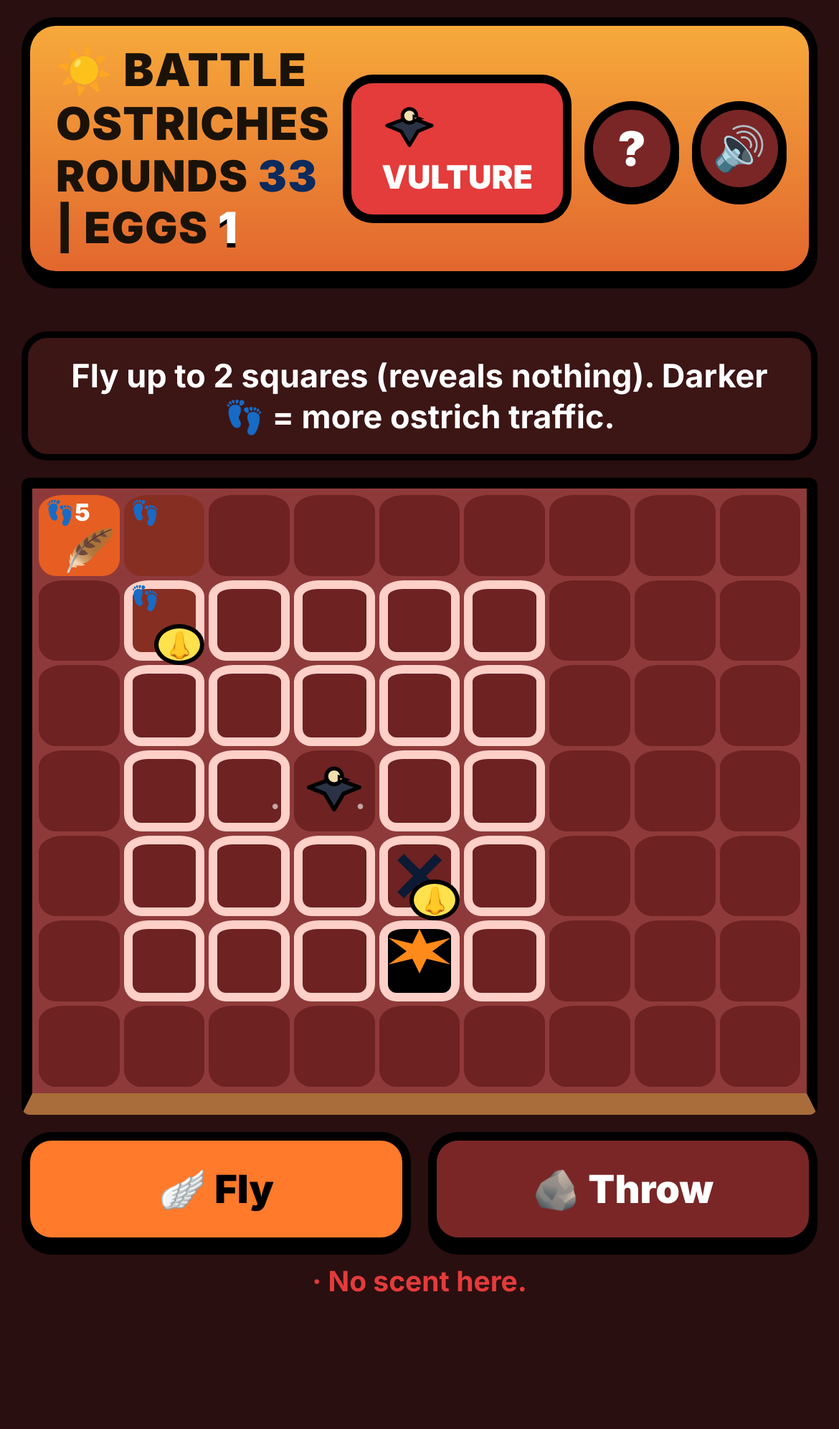
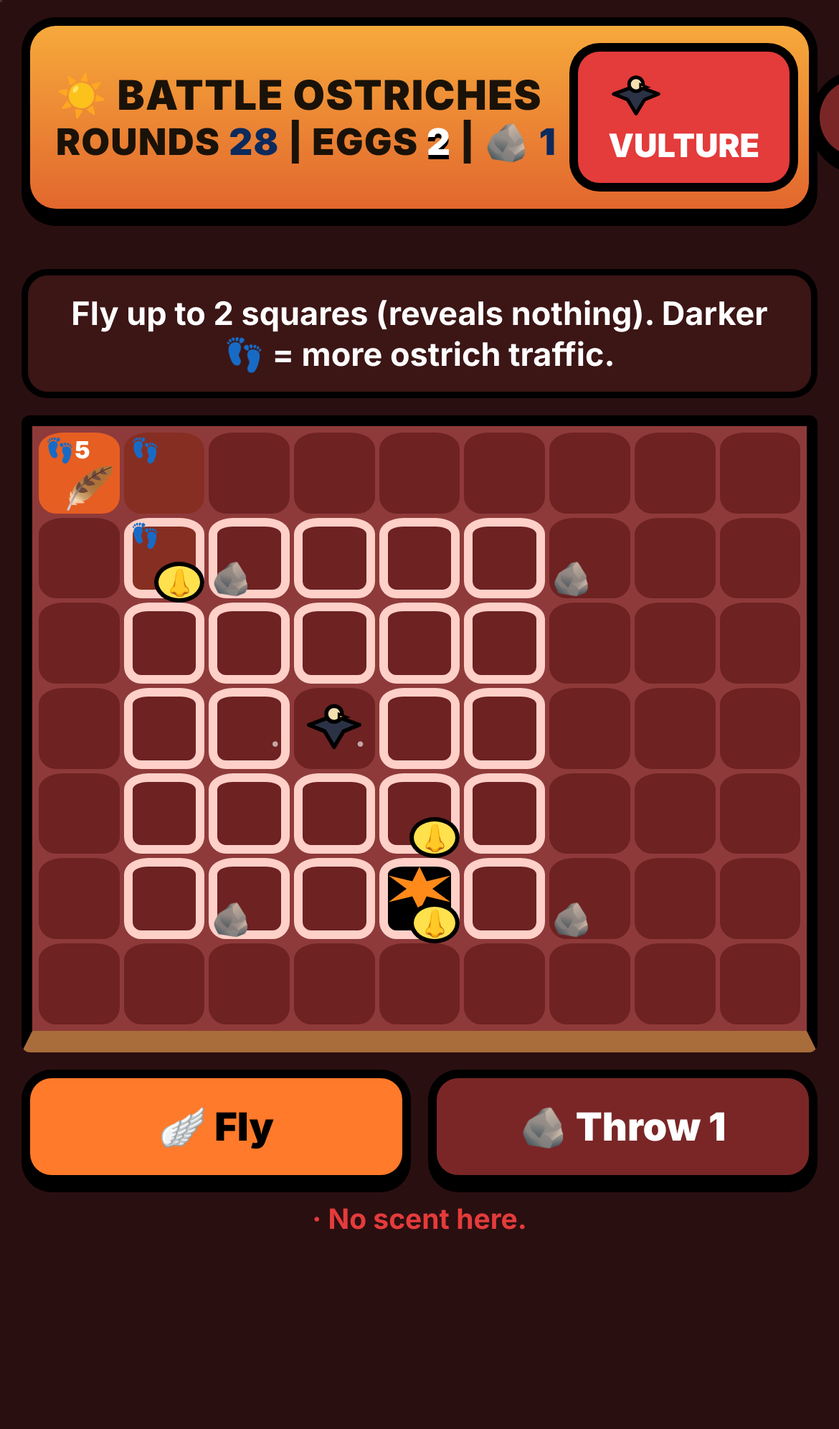
Food, limited stones + rock refills, carry limit, carried eggs smashable, warmth on eggs; retune to 35 rounds

diff --git a/game.js b/game.js
@@ -2,8 +2,8 @@
 const CONFIG = {
   cols: 9, rows: 7,
   eggs: 3,
-  rounds: 14,          // ostrich wins if any egg survives this many rounds
-  warmth: 11,           // each egg must be sat on at least once every N rounds
+  rounds: 35,          // ostrich wins if any egg survives this many rounds
+  warmth: 14,           // each egg must be sat on at least once every N rounds
   maxSit: 3,           // after N consecutive rounds on the same egg, ostrich must step off (feed)
   vultureFly: 2,       // vulture flies up to N squares (king-move distance)
   throwRange: 1,       // vulture throws at own square or within N
@@ -12,6 +12,10 @@ const CONFIG = {
   scrapeDepth: 2,      // footprint depth a scrape (fake or sat-on nest) adds
   sitDepth: 1,         // footprint depth added each round the ostrich sits on a real egg
   smellRange: 2,       // after landing, vulture learns if any egg is within N squares (yes/no)
+  maxCarry: 2,         // consecutive turns an egg may be carried before it must be set down
+  foodMin: 2, foodMax: 3, // food spawns this many squares (king distance) from the ostrich
+  stones: 3,           // stones the vulture holds (and refills to)
+  rocks: [[2, 1], [6, 1], [2, 5], [6, 5]], // symmetric rock squares; landing refills stones
 };
 const dist = (a, b) => Math.max(Math.abs(a[0] - b[0]), Math.abs(a[1] - b[1]));
 const key = (p) => p[0] + ',' + p[1];
@@ -20,7 +24,8 @@ const inB = (p, c = CONFIG) => p[0] >= 0 && p[1] >= 0 && p[0] < c.cols && p[1] <
 function newGame(cfg = CONFIG) {
   return { cfg, phase: 'setupEggs', round: 1, turn: 'blue', eggs: [], ostrich: null,
     carrying: null, sitEgg: null, sitCount: 0, vulture: cfg.vultureStart.slice(),
-    prints: {}, marks: {}, fakes: [], smells: {}, thrown: {}, vtracks: {}, log: [], winner: null };
+    prints: {}, marks: {}, fakes: [], smells: {}, thrown: {}, vtracks: {}, log: [], winner: null,
+    carryTurns: 0, food: null, hungry: false, stones: cfg.stones };
 }
 function eggAt(g, p) { return g.eggs.find(e => e.alive && e.pos && key(e.pos) === key(p)); }
 function aliveEggs(g) { return g.eggs.filter(e => e.alive); }
@@ -43,12 +48,17 @@ function placeOstrich(g, p) {
 // --- ostrich ---
 function ostrichMoves(g, carry = false) {
   if (g.phase !== 'play' || g.turn !== 'blue') return [];
+  if (carryMaxed(g) && canSetDown(g)) return []; // must set down here
+  const res = moves1(g, carry, true); return res.length || !carryMaxed(g) ? res : moves1(g, carry, false);
+}
+function moves1(g, carry, strict) {
   const res = [];
   for (let dx = -1; dx <= 1; dx++) for (let dy = -1; dy <= 1; dy++) {
     if (!dx && !dy) continue;
     const p = [g.ostrich[0] + dx, g.ostrich[1] + dy];
     if (!inB(p, g.cfg)) continue;
     if ((carry || g.carrying !== null) && eggAt(g, p)) continue; // can carry only one egg
+    if (strict && carryMaxed(g) && !stoneFree(g, p)) continue; // forced to set down on arrival
     res.push(p);
   }
   return res;
@@ -57,24 +67,45 @@ function canPickUp(g) { // standing on a placed egg, not carrying
   return g.phase === 'play' && g.turn === 'blue' && g.carrying === null && g.sitEgg !== null;
 }
 function stoneFree(g, p) { return !g.thrown[key(p)]; }
+function isRock(g, p) { return g.cfg.rocks.some(r => key(r) === key(p)); }
+// At the carry limit the ostrich must set down now; if its square is stoned it takes one step and sets down there automatically.
+function carryMaxed(g) { return g.carrying !== null && g.carryTurns >= g.cfg.maxCarry; }
 function canSetDown(g) { return g.phase === 'play' && g.turn === 'blue' && g.carrying !== null && !eggAt(g, g.ostrich) && stoneFree(g, g.ostrich); }
 function ostrichStep(g, p, carry = false) {
   if (carry && !canPickUp(g)) return false;
   if (!ostrichMoves(g, carry).some(q => key(q) === key(p))) return false;
-  if (carry) { const e = g.eggs[g.sitEgg]; e.pos = null; g.carrying = e.id; }
+  const forced = carryMaxed(g);
+  if (carry) { const e = g.eggs[g.sitEgg]; e.pos = null; g.carrying = e.id; g.carryTurns = 0; }
   g.ostrich = p.slice();
   g.prints[key(p)] = (g.prints[key(p)] || 0) + 1;
+  if (g.food && key(g.food) === key(p)) { g.food = null; g.hungry = false; g.lastAte = true; } else g.lastAte = false;
+  g.sitRun = 0;
+  if (forced) { const e = g.eggs[g.carrying]; if (!stoneFree(g, p)) { e.alive = false; g.carrying = null; g.carryTurns = 0; g.sitEgg = null; g.sitCount = 0; endOstrich(g); return true; } e.pos = p.slice(); g.carrying = null; g.carryTurns = 0; g.sitEgg = e.id; g.sitCount = 0; endOstrich(g); return true; }
+  if (g.carrying !== null) g.carryTurns++;
   const e = g.carrying === null ? eggAt(g, p) : null;
   if (e) { if (g.sitEgg !== e.id) g.sitCount = 0; g.sitEgg = e.id; } else { g.sitEgg = null; g.sitCount = 0; }
   endOstrich(g); return true;
 }
 function ostrichSetDown(g) {
   if (!canSetDown(g)) return false;
-  const e = g.eggs[g.carrying]; e.pos = g.ostrich.slice(); g.carrying = null;
+  const e = g.eggs[g.carrying]; e.pos = g.ostrich.slice(); g.carrying = null; g.carryTurns = 0; g.sitRun = 0;
   g.sitEgg = e.id; g.sitCount = 0; endOstrich(g); return true;
 }
-function canSit(g) { return g.phase === 'play' && g.turn === 'blue' && g.carrying === null && g.sitEgg !== null && g.sitCount < g.cfg.maxSit; }
-function ostrichSit(g) { if (!canSit(g)) return false; addPrint(g, g.ostrich, g.cfg.sitDepth); endOstrich(g); return true; }
+function canSit(g) { return g.phase === 'play' && g.turn === 'blue' && g.carrying === null && g.sitEgg !== null && g.sitCount < g.cfg.maxSit && !g.hungry; }
+function ostrichSit(g) { if (!canSit(g)) return false; addPrint(g, g.ostrich, g.cfg.sitDepth); g.sitRun = (g.sitRun || 0) + 1; endOstrich(g);
+  if (g.phase === 'play' && g.sitRun >= g.cfg.maxSit) { g.sitRun = 0; g.food = spawnFood(g); g.hungry = !!g.food; } return true; }
+// Food: empty, unstoned, not a rock, foodMin..foodMax away, and the round trip (2*d) must fit the coldest egg's remaining warmth.
+function spawnFood(g) {
+  const o = g.ostrich, minWarm = Math.min(...aliveEggs(g).map(e => coldIn(g, e)));
+  const ok = (p, lo, hi) => { const d = dist(p, o); return d >= lo && d <= hi && !eggAt(g, p) && !fakeAt(g, p) && stoneFree(g, p) && !isRock(g, p) && key(p) !== key(g.vulture); };
+  const all = []; for (let x = 0; x < g.cfg.cols; x++) for (let y = 0; y < g.cfg.rows; y++) all.push([x, y]);
+  for (let hi = g.cfg.foodMax; hi >= 1; hi--) {
+    const lo = Math.min(g.cfg.foodMin, hi);
+    const c = all.filter(p => ok(p, lo, hi) && (2 * dist(p, o) < minWarm || hi === 1));
+    if (c.length) return c[Math.floor(Math.random() * c.length)];
+  }
+  return null; // nowhere legal: no hunger this time
+}
 function addPrint(g, p, n) { g.prints[key(p)] = (g.prints[key(p)] || 0) + n; }
 function fakeAt(g, p) { return g.fakes.some(f => key(f) === key(p)); }
 function canScrape(g) { return g.phase === 'play' && g.turn === 'blue' && g.fakes.length < g.cfg.fakeNests && !eggAt(g, g.ostrich) && !fakeAt(g, g.ostrich) && g.carrying === null; }
@@ -85,9 +116,9 @@ function endOstrich(g) {
   if (g.sitEgg !== null) { g.sitCount++; g.eggs[g.sitEgg].lastWarm = g.round; }
   endRound(g);
 }
-// The ostrich must step every turn (or set down); if sitting the max, it can't stay — stepping is always required anyway.
-// Feeding rule: after maxSit consecutive rounds sitting on an egg, the ostrich may not carry it away either.
+// Feeding rule: after maxSit consecutive sits the ostrich gets hungry: food spawns and it can't sit until it steps on the food.
 function canCarryNow(g) { return canPickUp(g) && !mustLeave(g); }
+function canThrow(g) { return g.phase === 'play' && g.turn === 'red' && g.stones > 0; }
 
 // --- vulture ---
 function flyTargets(g) {
@@ -97,7 +128,7 @@ function flyTargets(g) {
   return r;
 }
 function throwTargets(g) {
-  if (g.phase !== 'play' || g.turn !== 'red') return [];
+  if (!canThrow(g)) return [];
   const r = []; for (let x = 0; x < g.cfg.cols; x++) for (let y = 0; y < g.cfg.rows; y++)
     if (dist([x, y], g.vulture) <= g.cfg.throwRange) r.push([x, y]);
   return r;
@@ -106,6 +137,7 @@ function vultureFly(g, p) {
   if (!flyTargets(g).some(q => key(q) === key(p))) return false;
   g.vulture = p.slice(); g.lastAction = { type: 'fly' };
   g.vtracks[key(p)] = (g.vtracks[key(p)] || 0) + 1;
+  if (isRock(g, p) && g.stones < g.cfg.stones) { g.stones = g.cfg.stones; g.lastAction.refill = true; }
   // Landing on an unguarded, uncarried egg spots it. The mark stays even if the egg later moves (stale).
   const e = eggAt(g, p);
   if (e && key(p) !== key(g.ostrich)) { g.marks[key(p)] = 'spotted'; g.lastAction.spotted = p.slice(); }
@@ -116,7 +148,9 @@ function vultureThrow(g, p) {
   if (!throwTargets(g).some(q => key(q) === key(p))) return false;
   const e = eggAt(g, p); let result;
   const guarded = key(p) === key(g.ostrich);
-  if (guarded && (e || g.carrying !== null)) result = 'feather';
+  g.stones--;
+  if (guarded && g.carrying !== null) { const c = g.eggs[g.carrying]; c.alive = false; g.carrying = null; g.carryTurns = 0; result = 'hit'; } // carried egg is exposed
+  else if (guarded && e) result = 'feather';
   else if (e) { e.alive = false; result = 'hit'; if (g.sitEgg === e.id) { g.sitEgg = null; g.sitCount = 0; } }
   else if (fakeAt(g, p)) result = 'fake';
   else result = 'miss';
@@ -130,7 +164,7 @@ function endRound(g) {
   g.lastCold = [];
   for (const e of aliveEggs(g)) if (g.round - e.lastWarm >= g.cfg.warmth) {
     e.alive = false; g.lastCold.push(e.id);
-    if (g.carrying === e.id) g.carrying = null;
+    if (g.carrying === e.id) { g.carrying = null; g.carryTurns = 0; }
     if (g.sitEgg === e.id) { g.sitEgg = null; g.sitCount = 0; }
   }
   if (!aliveEggs(g).length) { g.winner = 'red'; g.phase = 'over'; return; }
@@ -139,6 +173,6 @@ function endRound(g) {
 }
 function coldIn(g, e) { return g.cfg.warmth - (g.round - e.lastWarm); } // rounds left before going cold
 
-const API = { CONFIG, newGame, placeEgg, placeOstrich, ostrichMoves, ostrichStep, ostrichSetDown, canPickUp, canSit, ostrichSit, canScrape, ostrichScrape, fakeAt, smellsEgg, stoneFree,
+const API = { CONFIG, newGame, placeEgg, placeOstrich, ostrichMoves, ostrichStep, ostrichSetDown, canPickUp, canSit, ostrichSit, canScrape, canThrow, isRock, carryMaxed, spawnFood, ostrichScrape, fakeAt, smellsEgg, stoneFree,
   canCarryNow, canSetDown, mustLeave, flyTargets, throwTargets, vultureFly, vultureThrow, eggAt, aliveEggs, coldIn, key, dist };
 if (typeof module !== 'undefined') module.exports = API; else window.BO = API;

diff --git a/public/ui.js b/public/ui.js
@@ -71,7 +71,7 @@ function curMode(){if(!S.myTurn)return null;if(S.role==='red')return mode||'fly'
 function render(prev){
  $('lobby').classList.add('hidden');const C=S.cfg,blue=S.role==='blue',body=document.body;body.className=blue?'blue':'red';
  $('turnTag').innerHTML=`<span style="display:inline-block;width:26px;height:26px;vertical-align:middle">${blue?OST:VUL}</span> ${blue?'OSTRICH':'VULTURE'}`;
- $('roundsLeft').textContent=C.rounds-S.round+1;$('eggsLeft').textContent=S.eggsLeft;
+ $('roundsLeft').textContent=C.rounds-S.round+1;$('eggsLeft').textContent=S.eggsLeft;if($('stonesLeft'))$('stonesLeft').textContent=S.stones;
  // waiting for opponent
  const link=location.origin+'/?room='+S.code,slot=$('wait-slot');
  if(!S.opponent&&S.phase!=='over'){const w=$('wait');w.classList.remove('hidden');slot.appendChild(w);$('shareCode').textContent=S.code;$('shareLink').value=link;}
@@ -90,27 +90,33 @@ function render(prev){
   if(blue&&S.can&&S.can.down&&S.ostrich&&k===key(S.ostrich))d.classList.add('nestok');
   if(blue&&(S.fakes||[]).some(f=>key(f)===k))d.innerHTML+='<span class="fakeic">🪹</span>';
   if(!blue&&S.smells&&k in S.smells)d.innerHTML+=`<span class="smell ${S.smells[k]?'yes':'no'}">${S.smells[k]?'👃':'·'}</span>`;
-  const e=eggAt[k];if(e)d.innerHTML+=`<div class="egg${e.coldIn<=2?' cold':''}"></div>`;
+  if((C.rocks||[]).some(r=>key(r)===k)){d.classList.add('rocksq');d.innerHTML+='<span class="rock">🪨</span>';}
+  if(blue&&S.food&&key(S.food)===k)d.innerHTML+='<span class="food">🦗</span>';
+  const e=eggAt[k];if(e)d.innerHTML+=`<div class="egg${e.coldIn<=2?' cold':''}"></div>`+(blue&&S.phase==='play'?`<span class="eggw${e.coldIn<=1?' crit':e.coldIn<=2?' low':''}">🔥${e.coldIn}</span>`:'');
   if(k===key(S.vulture))d.innerHTML+=`<div class="pc" style="background:none;border:0${blue?';width:60%;height:60%':''}">${VUL}</div>`;
-  if(S.ostrich&&k===key(S.ostrich))d.innerHTML+=`<div class="pc" style="background:none;border:0">${OST}${S.carrying!==null?'<span style="position:absolute;right:-4px;bottom:-4px;font-size:.6em">🥚</span>':''}</div>`;
+  if(S.ostrich&&k===key(S.ostrich))d.innerHTML+=`<div class="pc" style="background:none;border:0">${OST}${S.carrying!==null?'<span style="position:absolute;right:-4px;bottom:-4px;font-size:.6em">🥚</span>':''}</div>`+(S.carrying!==null&&S.eggs[S.carrying]?`<span class="eggw">🔥${S.eggs[S.carrying].coldIn}</span>`:'');
   d.onclick=()=>tap(x,y);board.appendChild(d);}
  const w=$('warm');w.innerHTML='';
- if(blue&&S.phase==='play')S.eggs.forEach((e,i)=>{const c=document.createElement('div');c.className='wchip'+(!e.alive?' dead':e.coldIn<=1?' crit':e.coldIn<=2?' low':'');c.textContent=`🥚${i+1}: ${e.alive?(e.carried?'carried · ':'')+'🔥'+e.coldIn:'lost'}`;w.appendChild(c);});
+ if(false)S.eggs.forEach((e,i)=>{const c=document.createElement('div');c.className='wchip'+(!e.alive?' dead':e.coldIn<=1?' crit':e.coldIn<=2?' low':'');c.textContent=`🥚${i+1}: ${e.alive?(e.carried?'carried · ':'')+'🔥'+e.coldIn:'lost'}`;w.appendChild(c);});
  const a=$('actions');let h='';a.innerHTML='';
  if(S.phase==='setupEggs')h=blue?`Tap ${C.eggs-S.eggs.length} square(s) to hide eggs. Spread out = harder to find, longer to keep warm.`:'The ostrich is hiding its eggs…';
  else if(S.phase==='setupOstrich')h=blue?'Tap where your ostrich starts (on an egg to start warming it).':'The ostrich is hiding its eggs…';
  else if(S.phase==='play'&&!S.myTurn)h=blue?'Vulture\'s turn — watch the sky…':'Ostrich\'s turn — it\'s moving somewhere…';
  else if(S.phase==='play'&&blue){
   a.innerHTML=`<button class="${M==='step'?'on':''}" onclick="UI.setMode('step')">👣 Step</button>`+(S.carrying===null?`<button ${S.can.carry?'':'disabled'} class="${M==='carry'?'on':''}" onclick="UI.setMode('carry')">🥚 Carry</button><button ${S.can.sit?'':'disabled'} onclick="UI.act('sit')">🪺 Sit</button><button ${S.can.scrape?'':'disabled'} onclick="UI.act('scrape')">🪹 Fake ${S.fakesLeft}</button>`:`<button ${S.can.down?'':'disabled'} onclick="UI.act('down')">⬇ Set down</button>`);
-  h=M==='carry'?'Carry: tap a highlighted square to walk off WITH this egg.':S.carrying!==null?(S.can.down?'Carrying an egg (cooling). Set down here, or Step.':'Carrying an egg (cooling). A stone has hit this square: you can\'t nest here.')+' Green rings = stone-free squares where you could set it down.':S.mustLeave?`Hungry! ${C.maxSit} rounds on this egg — step off to feed.`:S.onEgg?'On an egg (warm & safe). Sit, Carry it, or Step off.':`Step: tap a highlighted square. Or scrape a fake nest here (${S.fakesLeft} left).`;
+  h=S.carryMaxed?(S.can.down?`Carried ${C.maxCarry} turns: you must set the egg down now.`:'Carried too long and this square was stoned: step to a green square — the egg is set down there.'):S.hungry&&S.onEgg&&!S.can.sit&&S.food?'Hungry! Walk to the 🦗 to eat before you can sit again.':M==='carry'?'Carry: tap a highlighted square to walk off WITH this egg.':S.carrying!==null?(S.can.down?'Carrying an egg (cooling). Set down here, or Step.':'Carrying an egg (cooling). A stone has hit this square: you can\'t nest here.')+' Green rings = stone-free squares where you could set it down.':S.hungry?'Hungry! Walk to the 🦗 food to eat. You can\'t sit until you do.':S.mustLeave?`${C.maxSit} rounds on this egg — step off.`:S.onEgg?'On an egg (warm & safe). Sit, Carry it, or Step off.':`Step: tap a highlighted square. Or scrape a fake nest here (${S.fakesLeft} left).`;
  } else if(S.phase==='play'){
-  a.innerHTML=`<button class="${M==='fly'?'on':''}" onclick="UI.setMode('fly')">🪽 Fly</button><button class="${M==='throw'?'on':''}" onclick="UI.setMode('throw')">🪨 Throw</button>`;
-  h=M==='fly'?`Fly up to ${C.vultureFly} squares (reveals nothing). Darker 👣 = more ostrich traffic.`:'Throw a stone at your square or a neighbour. Repeats allowed.';}
+  a.innerHTML=`<button class="${M==='fly'?'on':''}" onclick="UI.setMode('fly')">🪽 Fly</button><button ${S.stones>0?'':'disabled'} class="${M==='throw'?'on':''}" onclick="UI.setMode('throw')">🪨 Throw ${S.stones}</button>`;
+  h=M==='fly'?`Fly up to ${C.vultureFly} squares (reveals nothing). Darker 👣 = more ostrich traffic.`:'Throw a stone at your square or a neighbour. Repeats allowed.';
+  if(!S.stones)h='Out of stones! Fly to a 🪨 rock square to reload '+C.stones+'.';}
  // event line
  let ev='';const la=S.lastAction;
  if(prev&&la&&prev.turn==='red'&&S.turn==='blue'&&la.type==='throw')ev=la.result==='fake'?(blue?'🪹 The vulture stoned one of your fake nests.':'🪹 Just an empty scrape — a fake nest!'):la.result==='hit'?'💥 SMASH! An egg was broken.':la.result==='feather'?(blue?'🪶 A stone hit you — your egg was safe.':'🪶 Feathers! An ostrich was guarding an egg there.'):'✕ Stone missed.';
  else if(prev&&la&&prev.turn==='red'&&S.turn==='blue'&&la.spotted)ev=blue?'👁 The vulture SPOTTED an egg! Sit on it or carry it away now.':'';
  else if(prev&&la&&prev.turn==='red'&&S.turn==='blue'&&blue)ev='The vulture flew.';
+ if(la&&la.refill&&prev&&prev.turn==='red'&&S.turn==='blue')ev+=blue?' 🪨 It reloaded stones at a rock.':'';
+ if(!blue&&S.myTurn&&la&&la.refill&&prev&&prev.turn==='blue')ev='🪨 Reloaded: '+C.stones+' stones. ';
+ if(blue&&S.myTurn&&S.food&&prev&&!prev.food)ev+=' 🦗 Hungry! Food appeared nearby.';
  if(S.lastCold&&prev&&prev.round!==S.round)ev+=` ❄ ${S.lastCold} egg(s) went cold!`;
  if(!blue&&S.myTurn&&la&&la.type==='fly'&&key(S.vulture)&&prev&&prev.turn==='blue')ev=(la.fake?'🪹 This scrape is empty — a fake nest! ':'')+(la.smell?'👃 You smell eggs nearby! (within '+C.smellRange+' squares)':'· No scent here.')+(la.spotted?' 👁 And you spotted an egg right here — throw!':'');
  if(!blue&&S.myTurn&&la&&la.spotted&&!ev&&S.marks[key(la.spotted)]==='spotted'&&key(la.spotted)===key(S.vulture))ev='👁 You spotted an egg right here! Throw at it now.';

diff --git a/test.js b/test.js
@@ -1,5 +1,5 @@
 const B=require('./game.js');const assert=require('assert');let n=0;const t=(name,f)=>{f();n++;console.log('ok',name)};
-const LEGACY=Object.assign({},B.CONFIG,{rounds:40,warmth:6});const _ng=B.newGame;B.newGame=(c)=>_ng(c||LEGACY);
+const LEGACY=Object.assign({},B.CONFIG,{rounds:40,warmth:6,stones:99,maxCarry:99});const _ng=B.newGame;B.newGame=(c)=>_ng(c||LEGACY);
 function setup(){const g=B.newGame();B.placeEgg(g,[0,0]);B.placeEgg(g,[8,6]);B.placeEgg(g,[0,6]);B.placeOstrich(g,[0,0]);B.vultureFly(g,[4,2]);return g;}
 t('setup',()=>{const g=setup();assert.equal(g.phase,'play');assert.equal(g.sitEgg,0);assert(!B.placeEgg(B.newGame(),[4,3]))});
 t('ostrich 8-dir step only adjacent',()=>{const g=setup();assert(!B.ostrichStep(g,[2,2]));assert(B.ostrichStep(g,[1,1]));assert.equal(g.turn,'red')});
@@ -10,7 +10,7 @@ t('fly range 2, throw adjacent',()=>{const g=setup();B.ostrichStep(g,[1,1]);asse
 t('hit unguarded egg, miss, feather on guarded, repeat allowed',()=>{const g=B.newGame();B.config;B.placeEgg(g,[4,4]);B.placeEgg(g,[5,3]);B.placeEgg(g,[0,0]);B.placeOstrich(g,[0,1]);B.vultureFly(g,[4,3+1]);B.vultureFly; g.vulture=[4,3];
  B.ostrichStep(g,[0,0]);assert.equal(B.vultureThrow(g,[4,4]),'hit');B.ostrichStep(g,[1,1]);assert.equal(B.vultureThrow(g,[3,3]),'miss');B.ostrichStep(g,[0,0]);assert.equal(B.vultureThrow(g,[3,3]),'miss');
  const h=B.newGame();B.placeEgg(h,[4,4]);B.placeEgg(h,[0,0]);B.placeEgg(h,[8,0]);B.placeOstrich(h,[4,4]);B.vultureFly(h,[4,5]);B.ostrichSit(h);assert.equal(B.vultureThrow(h,[4,4]),'feather');assert(h.eggs[0].alive)});
-t('carried egg guarded',()=>{const g=setup();B.ostrichStep(g,[1,1],true);B.vultureFly(g,[2,2]);B.ostrichStep(g,[2,1]);assert.equal(B.vultureThrow(g,[2,1]),'feather');assert(g.eggs[0].alive)});
+t('carried egg is smashed by a stone on the ostrich',()=>{const g=setup();B.ostrichStep(g,[1,1],true);B.vultureFly(g,[2,2]);B.ostrichStep(g,[2,1]);assert.equal(B.vultureThrow(g,[2,1]),'hit');assert(!g.eggs[0].alive);assert.equal(g.carrying,null)});
 t('footprints deepen',()=>{const g=setup();B.ostrichStep(g,[1,1]);B.vultureFly(g,[4,4]);B.ostrichStep(g,[0,0]);B.vultureFly(g,[4,3]);B.ostrichStep(g,[1,1]);assert.equal(g.prints['1,1'],2)});
 t('warmth: unvisited eggs go cold after 6 rounds',()=>{const g=setup();let x=0;for(let r=1;r<=6;r++){B.ostrichStep(g,[r%2,1]);B.vultureFly(g,[4,r%2?4:3]);}assert(!g.eggs[1].alive&&!g.eggs[2].alive);});
 t('vulture wins when all eggs lost',()=>{const g=setup();for(let r=1;r<=6;r++){B.ostrichStep(g,[r%2,1]);B.vultureFly(g,[4,r%2?4:3]);}assert.equal(g.winner,'red')});
@@ -50,4 +50,17 @@ t('set down only where no stone was ever thrown',()=>{const g=setup();B.ostrichS
 t('vulture landing tracks deepen; no signal when eggs move',()=>{const g=setup();B.ostrichStep(g,[1,1],true);
  assert.equal(g.vtracks['4,2'],1);B.vultureFly(g,[4,3]);B.ostrichStep(g,[1,2]);B.vultureFly(g,[4,2]);assert.equal(g.vtracks['4,2'],2);
  assert.deepEqual(Object.keys(g.lastAction).sort(),['smell','type']);});
+
+const NEW=()=>{const g=_ng(B.CONFIG);B.placeEgg(g,[0,0]);B.placeEgg(g,[8,6]);B.placeEgg(g,[0,6]);B.placeOstrich(g,[0,0]);B.vultureFly(g,[4,2]);return g;};
+t('max 2 carry turns, then forced set-down (stone-free only)',()=>{const g=NEW();assert(B.ostrichStep(g,[1,0],true));B.vultureFly(g,[4,3]);assert(B.ostrichStep(g,[2,0]));assert(B.carryMaxed(g));B.vultureFly(g,[4,2]);
+ assert.equal(B.ostrichMoves(g).length,0);assert(B.ostrichSetDown(g));assert.equal(g.carrying,null);
+ const h=NEW();B.ostrichStep(h,[1,0],true);B.vultureFly(h,[4,3]);B.ostrichStep(h,[2,0]);h.thrown['2,0']=1;h.turn='blue';const mv=B.ostrichMoves(h);assert(mv.length&&mv.every(q=>B.stoneFree(h,q)));B.ostrichStep(h,mv[0]);assert.equal(h.carrying,null);assert.deepEqual(h.eggs[0].pos,mv[0])});
+t('3 sits -> food spawns in reach; no sitting until eaten',()=>{for(let k=0;k<50;k++){const g=NEW();for(let i=0;i<3;i++){assert(B.ostrichSit(g)||i>0);B.vultureFly(g,i%2?[4,2]:[4,3]);}
+ if(!g.food){assert(!g.hungry);continue}const d=B.dist(g.food,g.ostrich);assert(d>=2&&d<=3);assert(2*d<Math.min(...B.aliveEggs(g).map(e=>B.coldIn(g,e))));assert(B.stoneFree(g,g.food)&&!B.eggAt(g,g.food));
+ assert(g.hungry);assert(!B.canSit(g));const f=g.food;g.ostrich=[f[0]+(f[0]>0?-1:1),f[1]];assert(B.ostrichStep(g,f));assert(!g.hungry&&!g.food);}});
+t('vulture: 3 stones, throw disabled at 0, refill on a rock',()=>{const g=NEW();g.turn='red';assert.equal(g.stones,3);for(let i=0;i<3;i++){B.vultureThrow(g,g.vulture);g.turn='red';}assert.equal(g.stones,0);assert(!B.canThrow(g));assert.equal(B.throwTargets(g).length,0);assert(!B.vultureThrow(g,g.vulture));
+ g.vulture=[4,2];assert(B.vultureFly(g,[6,1]));assert.equal(g.stones,3);assert(g.lastAction.refill)});
+t('every square is within 2 flights of a rock (rocks symmetric)',()=>{const c=B.CONFIG;for(let x=0;x<c.cols;x++)for(let y=0;y<c.rows;y++){const d=Math.min(...c.rocks.map(r=>B.dist(r,[x,y])));assert(Math.ceil(d/c.vultureFly)<=2)}
+ for(const r of c.rocks)assert(c.rocks.some(q=>q[0]===c.cols-1-r[0]&&q[1]===r[1])&&c.rocks.some(q=>q[1]===c.rows-1-r[1]&&q[0]===r[0]))});
+t('earlier rules still present',()=>{const c=B.CONFIG;assert.equal(c.fakeNests,3);assert.equal(c.smellRange,2);const g=NEW();g.turn='red';g.vulture=[7,5];assert(B.vultureFly(g,[8,6]));assert.equal(g.marks['8,6'],'spotted');assert(g.vtracks['8,6']);assert.equal(g.lastAction.smell,true)});
 console.log(n+' tests passed');

diff --git a/sim.js b/sim.js
@@ -6,6 +6,7 @@ function ostrichBot(g) {
   const vThreat = (p) => D(p, v) <= C.vultureFly + C.throwRange;
   // spotted egg under me or adjacent: carry it away / sit
   if (g.carrying !== null) {
+    if (B.carryMaxed(g)) { if (B.canSetDown(g)) return B.ostrichSetDown(g); const m = B.ostrichMoves(g).sort((a, b) => D(b, v) - D(a, v)); return B.ostrichStep(g, m[0]); }
     if (B.canSetDown(g) && !vThreat(g.ostrich)) return B.ostrichSetDown(g);
     const mv = B.ostrichMoves(g).filter(q => B.stoneFree(g, q)).sort((a, b) => D(b, v) - D(a, v));
     return B.ostrichStep(g, (mv[0] || R(B.ostrichMoves(g))));
@@ -17,6 +18,11 @@ function ostrichBot(g) {
     const urgent = others.some(o => B.coldIn(g, o) - D(o.pos, g.ostrich) <= 2);
     if (!urgent && B.canSit(g) && D(v, g.ostrich) <= 2) return B.ostrichSit(g); // guard
     if (!urgent && B.canSit(g) && Math.random() < .3) return B.ostrichSit(g);
+  }
+  // hungry: walk to the food unless an egg is about to go cold
+  if (g.hungry && g.food) {
+    const urgent = alive.some(e => e.pos && B.coldIn(g, e) - D(e.pos, g.ostrich) <= 1 && D(e.pos, g.food) > 0);
+    if (!urgent) { const mv = B.ostrichMoves(g).sort((a, b) => D(a, g.food) - D(b, g.food) - (D(a, v) - D(b, v)) * .1); return B.ostrichStep(g, mv[0]); }
   }
   // fake nest sometimes when on empty square away from eggs
   if (B.canScrape(g) && g.round > 2 && Math.random() < .25 && !alive.some(e => e.pos && D(e.pos, g.ostrich) <= 1)) return B.ostrichScrape(g);
@@ -34,6 +40,11 @@ function vultureBot(g, mem) {
     if (g.marks[k] === 'spotted') s += 20; if (g.marks[k] === 'fake') s -= 50; if (g.marks[k] === 'miss') s -= 1.5; if (g.marks[k] === 'hit') s -= 50;
     for (const [sk, yes] of Object.entries(g.smells)) { const q = sk.split(',').map(Number); if (D(q, p) <= C.smellRange) s += yes ? 1.5 : -3; }
     return s + Math.random() * .3; };
+  const near = (p) => Math.min(...C.rocks.map(r => D(r, p)));
+  if (g.stones === 0 || (g.stones < C.stones && near(v) <= C.vultureFly && !Object.values(g.marks).includes('spotted') && Math.random() < .5)) {
+    const rk = C.rocks.slice().sort((a, b) => D(a, v) - D(b, v))[0];
+    const fl = B.flyTargets(g).sort((a, b) => D(a, rk) - D(b, rk) - (score(a) - score(b)) * .05); return B.vultureFly(g, fl[0]);
+  }
   const th = B.throwTargets(g).map(p => [p, score(p)]).sort((a, b) => b[1] - a[1])[0];
   if (th && th[1] >= mem.throwBar) return B.vultureThrow(g, th[0]);
   const best = sq.map(p => [p, score(p) + sq.filter(q => D(p, q) <= 1).reduce((a, q) => a + score(q) * .3, 0)]).sort((a, b) => b[1] - a[1])[0][0];
@@ -54,6 +65,6 @@ function play(cfg) {
 const n = +process.argv[2] || 2000, over = {};
 let SPREAD = 3;
 for (const a of process.argv.slice(3)) { const [k, v] = a.split('='); if (k === 'spread') SPREAD = +v; else over[k] = +v; }
-const cfg = { ...B.CONFIG, ...over }; let red = 0, rs = 0, close = 0, hits = 0;
-for (let i = 0; i < n; i++) { const o = play(cfg); if (o.w === 'red') { red++; if (o.r >= cfg.rounds * .75) close++; } else if (o.eggs === 1) close++; rs += o.r; hits += o.hits; }
-console.log(JSON.stringify(over), `vulture ${(100 * red / n).toFixed(1)}%  avg rounds ${(rs / n).toFixed(1)}  close ${(100 * close / n).toFixed(1)}%  eggs smashed/game ${(hits / n).toFixed(2)} (rest lost to cold)`);
+const cfg = { ...B.CONFIG, ...over }; let red = 0, rs = 0, close = 0, hits = 0, ost1 = 0, late = 0;
+for (let i = 0; i < n; i++) { const o = play(cfg); if (o.w === 'red') { red++; if (o.r >= cfg.rounds * .75) close++; } else if (o.eggs === 1) close++; rs += o.r; hits += o.hits; if (o.w !== 'red' && o.eggs === 1) ost1++; if (o.w === 'red' && o.r >= cfg.rounds * .6) late++; }
+console.log(JSON.stringify(over), `vulture ${(100 * red / n).toFixed(1)}%  avg rounds ${(rs / n).toFixed(1)}  close ${(100 * close / n).toFixed(1)}%  eggs smashed/game ${(hits / n).toFixed(2)} (rest lost to cold)  [ostrich won w/ 1 egg ${(100*ost1/n).toFixed(0)}% | vulture won after 60% of rounds ${(100*late/n).toFixed(0)}% | decided-late-or-1-egg ${(100*(ost1+late)/n).toFixed(0)}%]`);

diff --git a/public/tutorial.js b/public/tutorial.js
@@ -6,13 +6,13 @@ const STEPS=[
  {r:'all',img:'lobby',t:'Welcome to Battle Ostriches',d:'Two players, two phones. One is the Ostrich hiding eggs, the other is the Vulture hunting them with stones.'},
  {r:'all',img:'share',t:'Create & share',d:'Tap Create game, then Share link (or read out the 4-letter code). Your opponent opens the link on their own phone, and turns sync live.'},
  {r:'blue',img:'hide-eggs',t:'Ostrich: hide your eggs',d:`Tap ${C.eggs} squares to hide eggs, then tap where your ostrich starts. Spread out = harder to find, but longer trips to keep them warm.`},
- {r:'blue',img:'warmth',t:'Keep every egg warm',d:`Each egg's 🔥 timer counts down. Sit on it at least once every ${C.warmth} rounds or it goes cold and is lost. The egg you stand on can't be smashed.`},
- {r:'blue',img:'feeding',t:'Sit, then go feed',d:`Sit stays on an egg. After ${C.maxSit} rounds in a row on the same egg you get hungry and must step off.`},
- {r:'blue',img:'carry',t:'Carry an egg',d:'On an egg, tap Carry, then a square: you walk off holding it. It is safe with you but cools down. Every other turn: Step one square in any direction.'},
+ {r:'blue',img:'warmth',t:'Keep every egg warm',d:`The 🔥 number on each egg counts down. Sit on it at least once every ${C.warmth} rounds or it goes cold and is lost. The egg you stand on can't be smashed.`},
+ {r:'blue',img:'feeding',t:'Sit, then go feed',d:`Sit stays on an egg. After ${C.maxSit} sits in a row you get hungry: a 🦗 appears ${C.foodMin}-${C.foodMax} squares away (always close enough to get back before your eggs go cold). You can't sit again until you step on it to eat. Only you can see the food.`},
+ {r:'blue',img:'carry',t:'Carry an egg',d:`On an egg, tap Carry, then a square: you walk off holding it. It cools down, and a stone that hits YOUR square smashes it. After ${C.maxCarry} carry turns you must set it down.`+' Every other turn: Step one square in any direction.'},
  {r:'blue',img:'setdown',t:'Set it down',d:'Tap Set down to place the egg on your square (takes your whole turn). Only squares no stone has ever hit are allowed; green rings show them. The vulture is never told an egg moved — it only has your footprints. If the vulture lands on an unguarded egg it is spotted (👁): sit on it or carry it away right away.'},
  {r:'blue',img:'fake',t:'Scrape fake nests',d:`Tap Fake to scrape a decoy nest on your empty square (${C.fakeNests} per game). It leaves deep tracks like a real nest, so the vulture can't tell the difference until it lands on it or stones it. You see your fakes as 🪹, and grey 🪶 marks show every square the vulture has landed on (a number = repeat visits).`},
  {r:'red',img:'fly',t:'Vulture: fly',d:`Fly up to ${C.vultureFly} squares. It reveals nothing, but gets you close to where the eggs might be.`},
- {r:'red',img:'throw',t:'Vulture: throw a stone',d:'Throw at your own square or any square next to you. You may hit any square again: eggs move!'},
+ {r:'red',img:'throw',t:'Vulture: throw a stone',d:`Throw at your own square or any square next to you. You carry ${C.stones} stones (shown as 🪨 in the top bar); at 0 you can't throw. Land on one of the ${C.rocks.length} 🪨 rock squares to reload. Both players see the rocks.`},
  {r:'red',img:'smell',t:'Smell for eggs',d:`Every time you land, you sniff: 👃 "You smell eggs nearby!" means an egg is within ${C.smellRange} squares (not which one). · means no scent. The marks stay on your map.`},
  {r:'red',img:'marks',t:'Read the footprints',d:'👣 Every square the ostrich crosses shows footprints, and they get deeper (darker, with a number) each time. Busy trails and deep nest scrapes lead to eggs… or to fakes. You are never told when an egg moves: old marks can go stale.'},
  {r:'all',img:'marks',t:'Hit, miss, feather',d:'Black square + orange burst = egg smashed. Dark ✕ = miss. 🪶 Feather = an egg was there, but the ostrich was guarding it. 👁 = egg spotted by landing on it (it may have moved since). Dashed ring = fake nest.'},

diff --git a/server.js b/server.js
@@ -20,11 +20,11 @@ const tok = () => Math.random().toString(36).slice(2) + Date.now().toString(36);
 function view(room, role) {
   const g = room.g, mine = g.phase === 'play' && g.turn === role;
   const v = { role, code: room.code, phase: g.phase, turn: g.turn, round: g.round, cfg: g.cfg, winner: g.winner,
-    eggsLeft: B.aliveEggs(g).length, marks: g.marks, vulture: g.vulture, lastAction: g.lastAction || null,
+    eggsLeft: B.aliveEggs(g).length, stones: g.stones, marks: g.marks, vulture: g.vulture, lastAction: g.lastAction || null,
     lastCold: (g.lastCold || []).length, opponent: !!(room.players[role === 'blue' ? 'red' : 'blue'] || {}).ws, myTurn: mine };
   if (role === 'blue' || g.phase === 'over') {
     Object.assign(v, { eggs: g.eggs.map(e => ({ pos: e.pos, alive: e.alive, coldIn: B.coldIn(g, e), carried: g.carrying === e.id })),
-      ostrich: g.ostrich, carrying: g.carrying, onEgg: g.sitEgg !== null, mustLeave: B.mustLeave(g) });
+      ostrich: g.ostrich, carrying: g.carrying, carryTurns: g.carryTurns, carryMaxed: B.carryMaxed(g), food: g.food, hungry: g.hungry, onEgg: g.sitEgg !== null, mustLeave: B.mustLeave(g) });
     if (role === 'blue') Object.assign(v, { moves: mine ? B.ostrichMoves(g) : [], carryMoves: mine && B.canCarryNow(g) ? B.ostrichMoves(g, true) : [],
       can: { sit: B.canSit(g), carry: B.canCarryNow(g), down: B.canSetDown(g), scrape: B.canScrape(g) }, fakes: g.fakes, vtracks: g.vtracks, nestOk: mine && g.carrying !== null ? B.ostrichMoves(g).filter(q => B.stoneFree(g, q) && !B.eggAt(g, q)) : [], fakesLeft: g.cfg.fakeNests - g.fakes.length });
   }

diff --git a/public/index.html b/public/index.html
@@ -4,7 +4,7 @@
 <link rel="stylesheet" href="style.css"><link rel="stylesheet" href="themes.css"><script src="theme.js"></script></head><body>
 <div id="app">
  <header id="hud"><div><h1 class="logo">BATTLE OSTRICHES</h1>
-  <div class="ctr">ROUNDS <b id="roundsLeft" class="cy">14</b> | EGGS <b id="eggsLeft" class="or">3</b></div></div><div style="display:flex;align-items:center"><div id="turnTag">BLUE</div><button id="helpBtn" aria-label="How to play">?</button><button id="muteBtn" class="iconbtn" aria-label="Sound">🔊</button><button id="themeBtn" class="iconbtn" aria-label="Theme">🎨</button></div></header>
+  <div class="ctr">ROUNDS <b id="roundsLeft" class="cy">14</b> | EGGS <b id="eggsLeft" class="or">3</b> | 🪨 <b id="stonesLeft" class="cy">3</b></div></div><div style="display:flex;align-items:center"><div id="turnTag">BLUE</div><button id="helpBtn" aria-label="How to play">?</button><button id="muteBtn" class="iconbtn" aria-label="Sound">🔊</button><button id="themeBtn" class="iconbtn" aria-label="Theme">🎨</button></div></header>
  <div id="warm"></div>
  <div id="wait-slot"></div><div id="hint">Hint</div>
  <div id="board"></div>

diff --git a/e2e.js b/e2e.js
@@ -30,7 +30,7 @@ process.env.PORT = 3999; const server = require('./server.js');
   await A.click('#actions button:has-text("Set down")'); await A.waitForTimeout(300); console.log('A:', await A.textContent('#hint'), '|', await A.textContent('#log'), '| V:', await V.textContent('#hint'));
   await V.waitForFunction(() => /fly/i.test(document.getElementById('hint').textContent));
   await V.click('#actions button:has-text("Throw")'); await cell(V, 2, 1).click();
-  await A.waitForFunction(() => /Step/.test(document.getElementById('actions').textContent) && document.getElementById('roundsLeft').textContent === '12');
+  await A.waitForFunction(() => /Step/.test(document.getElementById('actions').textContent) && document.getElementById('roundsLeft').textContent === '33');
   await shot(A, '4-ostrich-turn'); await shot(V, '5-vulture-wait');
   // illegal move from wrong player is ignored
   const before = await V.textContent('#roundsLeft'); await cell(V, 0, 0).click(); await V.waitForTimeout(200);

diff --git a/make-tut-shots.js b/make-tut-shots.js
@@ -17,7 +17,7 @@ process.env.PORT = 3998; const server = require('./server.js');
   await A.waitForFunction(() => document.getElementById('wait').classList.contains('hidden'));
   await cell(A, 0, 0).click(); await A.waitForTimeout(100); await cell(A, 8, 6).click(); await A.waitForTimeout(100); await shot(A, 'hide-eggs');
   await cell(A, 4, 5).click(); await A.waitForTimeout(100); await cell(A, 0, 0).click();
-  await red('Throw', 4, 4); await blue(() => A.click('#actions button:has-text("Sit")'));
+  await red('Fly', 4, 5); await blue(() => A.click('#actions button:has-text("Sit")'));
   await red('Fly', 4, 4); await myTurn(A, 'Step'); await A.waitForTimeout(150); await shot(A, 'warmth'); await A.click('#actions button:has-text("Sit")');
   await red('Throw', 4, 5); await blue(() => A.click('#actions button:has-text("Sit")'));
   await red('Fly', 2, 3); await myTurn(A, 'Step'); await A.waitForTimeout(150); await shot(A, 'feeding'); await cell(A, 1, 1).click();

diff --git a/public/style.css b/public/style.css
@@ -103,3 +103,9 @@ button.ghost{background:transparent}
 .vtr{position:absolute;left:2px;top:0;font-size:.42em;z-index:3;filter:grayscale(1) brightness(1.6)}
 .cell.nestok{box-shadow:inset 0 0 0 4px #5be37a}
 .ctr{font-size:17px;white-space:nowrap}.logo{font-size:19px}
+.eggw{position:absolute;top:1px;right:1px;font-size:10px;font-weight:900;line-height:1;padding:1px 3px;border-radius:6px;background:#fff;color:#111;border:1.5px solid #111;z-index:3;pointer-events:none}
+.eggw.low{background:#ffcf4a}.eggw.crit{background:#e43b3b;color:#fff}
+.rock{position:absolute;left:1px;bottom:0;font-size:.55em;opacity:.95;pointer-events:none}
+.cell.rocksq{background-image:radial-gradient(circle at 70% 70%,#8a8a8a55 0 30%,transparent 32%)}
+.food{position:absolute;font-size:.75em;pointer-events:none;filter:drop-shadow(0 0 3px #ffe14d);animation:bob 1s ease-in-out infinite alternate}
+@keyframes bob{to{transform:translateY(-3px)}}

diff --git a/public/themes.css b/public/themes.css
@@ -43,3 +43,4 @@ html[data-theme=neon],html[data-theme=neon] body{background:#07061a radial-gradi
 [data-theme=neon] #hud b,[data-theme=neon] #hud .cy,[data-theme=neon] #hud .or{color:#38d6f0!important;text-shadow:0 0 6px #38d6f0}
 [data-theme=nature] .cell.legal{box-shadow:inset 0 0 0 3px #fffbe8!important}
 [data-theme=neon] .cell.miss,[data-theme=neon] .cell.miss *{color:#ff5bd6!important;fill:#ff5bd6;text-shadow:0 0 6px #ff5bd6;opacity:1!important}
+[data-theme=neon] .eggw{background:#08071e;color:#ffb347;border-color:#ffb347}[data-theme=neon] .eggw.crit{color:#ff3b6b;border-color:#ff3b6b}[data-theme=neon] .rock{filter:drop-shadow(0 0 4px #9ff3ff)}

diff --git a/README.md b/README.md
@@ -6,8 +6,8 @@ Node + WebSocket server (`server.js`) holds the authoritative game (`game.js`, a
 Games live in memory: a restart or free-tier sleep ends games in progress.
 
 ## Balance (sim.js)
-`node sim.js 2000` plays a heuristic ostrich bot (picks the coldest egg, avoids the vulture, flees with spotted eggs, never sets down on stoned squares) against a vulture bot that hunts prints/scent.
-Tuned CONFIG: rounds 14, warmth 11 (was 40 / 6) → vulture wins ~52%, ~89% of games decided by ≤1 egg or in the final 2 rounds.
+`node sim.js 4000` pits a smart ostrich bot (coldest-egg routing, eats food, flees with spotted eggs, obeys carry limit) against a vulture bot (hunts prints/scent, reloads at rocks).
+CONFIG: rounds 35, warmth 14, stones 3, maxCarry 2, food 2-3 squares → vulture wins ~53.5%, avg 26 rounds; ~47% of games end with the ostrich on its last egg or the vulture winning after 60% of rounds.
 
 ## Themes
 `classic` (default), `nature`, `neon`. Use 🎨 in the HUD/title, or `?theme=nature`; saved in localStorage `bo_theme`. CSS only (`public/themes.css`, `public/theme.js`).
